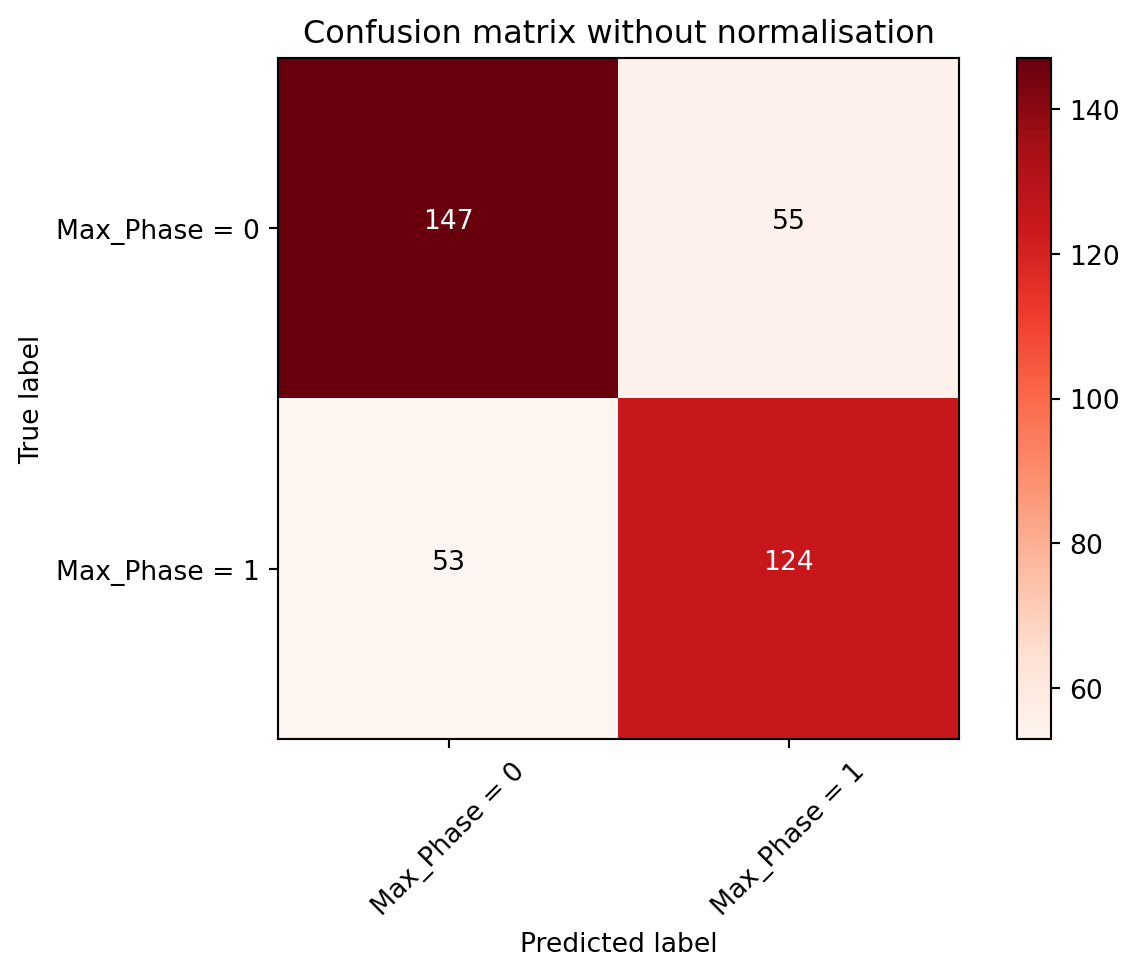
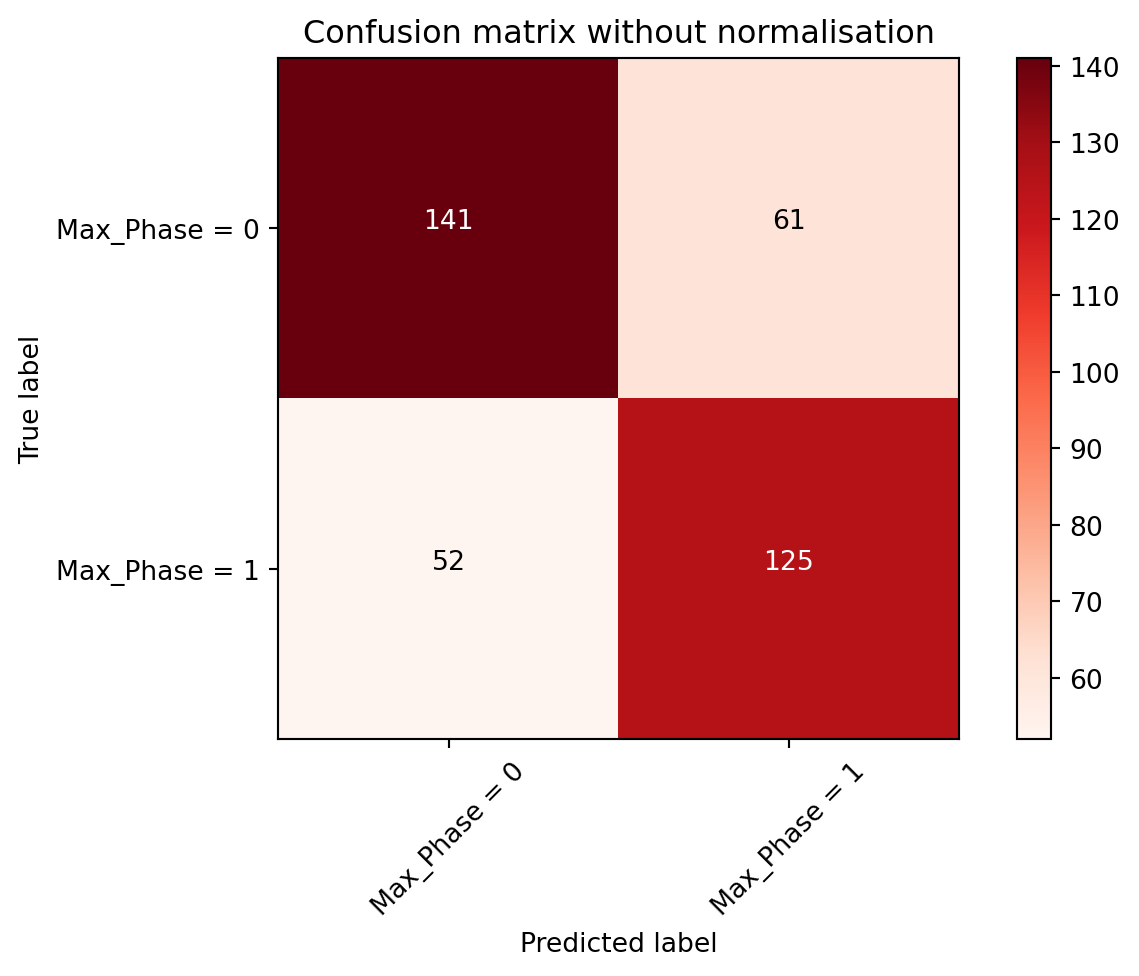
ML series 3 draft

diff --git a/_site/posts/11_ML3_Small_molecules_in_ChEMBL_database/ML3_chembl_cpds.html b/_site/posts/11_ML3_Small_molecules_in_ChEMBL_database/ML3_chembl_cpds.html
@@ -7,9 +7,9 @@
 <meta name="viewport" content="width=device-width, initial-scale=1.0, user-scalable=yes">
 
 <meta name="author" content="Jennifer HY Lin">
-<meta name="dcterms.date" content="2023-03-02">
+<meta name="dcterms.date" content="2023-03-13">
 
-<title>Home - Machine learning with small molecules in ChEMBL database</title>
+<title>Home - Small molecules in ChEMBL database</title>
 <style>
 code{white-space: pre-wrap;}
 span.smallcaps{font-variant: small-caps;}
@@ -193,7 +193,7 @@ gtag('config', 'G-5CHVP3K63C', { 'anonymize_ip': true});
 <header id="title-block-header" class="quarto-title-block default page-columns page-full">
   <div class="quarto-title-banner page-columns page-full">
     <div class="quarto-title column-body">
-      <h1 class="title">Machine learning with small molecules in ChEMBL database</h1>
+      <h1 class="title">Small molecules in ChEMBL database</h1>
             <p class="subtitle lead">Re-training &amp; final evaluation with <em>scikit-learn</em></p>
                                 <div class="quarto-categories">
                 <div class="quarto-category">Machine learning projects</div>
@@ -218,7 +218,7 @@ gtag('config', 'G-5CHVP3K63C', { 'anonymize_ip': true});
       <div>
       <div class="quarto-title-meta-heading">Published</div>
       <div class="quarto-title-meta-contents">
-        <p class="date">March 2, 2023</p>
+        <p class="date">March 13, 2023</p>
       </div>
     </div>
     
@@ -248,7 +248,7 @@ gtag('config', 'G-5CHVP3K63C', { 'anonymize_ip': true});
   <li><a href="#converting-predicted-values-into-a-dataframe" id="toc-converting-predicted-values-into-a-dataframe" class="nav-link" data-scroll-target="#converting-predicted-values-into-a-dataframe"><strong>Converting predicted values into a dataframe</strong></a></li>
   <li><a href="#converting-predicted-probabilities-into-a-dataframe" id="toc-converting-predicted-probabilities-into-a-dataframe" class="nav-link" data-scroll-target="#converting-predicted-probabilities-into-a-dataframe"><strong>Converting predicted probabilities into a dataframe</strong></a></li>
   </ul></li>
-  <li><a href="#evaluation-of-the-logistic-regression-cv-model" id="toc-evaluation-of-the-logistic-regression-cv-model" class="nav-link" data-scroll-target="#evaluation-of-the-logistic-regression-cv-model"><strong>Evaluation of the logistic regression CV model</strong></a>
+  <li><a href="#evaluation-of-the-logistic-regression-cv-model-after-using-optimised-parameters" id="toc-evaluation-of-the-logistic-regression-cv-model-after-using-optimised-parameters" class="nav-link" data-scroll-target="#evaluation-of-the-logistic-regression-cv-model-after-using-optimised-parameters"><strong>Evaluation of the logistic regression CV model after using optimised parameters</strong></a>
   <ul>
   <li><a href="#accuracy-scores" id="toc-accuracy-scores" class="nav-link" data-scroll-target="#accuracy-scores"><strong>Accuracy scores</strong></a></li>
   <li><a href="#confusion-matrix" id="toc-confusion-matrix" class="nav-link" data-scroll-target="#confusion-matrix"><strong>Confusion matrix</strong></a></li>
@@ -256,7 +256,6 @@ gtag('config', 'G-5CHVP3K63C', { 'anonymize_ip': true});
   <li><a href="#log-loss" id="toc-log-loss" class="nav-link" data-scroll-target="#log-loss"><strong>Log loss</strong></a></li>
   </ul></li>
   <li><a href="#discussions-and-conclusion" id="toc-discussions-and-conclusion" class="nav-link" data-scroll-target="#discussions-and-conclusion"><strong>Discussions and conclusion</strong></a></li>
-  <li><a href="#final-words" id="toc-final-words" class="nav-link" data-scroll-target="#final-words"><strong>Final words</strong></a></li>
   <li><a href="#references" id="toc-references" class="nav-link" data-scroll-target="#references"><strong>References</strong></a></li>
   </ul>
 <div class="toc-actions"><div><i class="bi bi-github"></i></div><div class="action-links"><p><a href="https://github.com/jhylin/Data_in_life_blog/issues/new" class="toc-action">Report an issue</a></p></div></div></nav>
@@ -274,15 +273,16 @@ gtag('config', 'G-5CHVP3K63C', { 'anonymize_ip': true});
 </section>
 <section id="review-of-ml-series-2-introduction-of-series-3" class="level5">
 <h5 class="anchored" data-anchor-id="review-of-ml-series-2-introduction-of-series-3"><strong>Review of ML series 2 &amp; introduction of series 3</strong></h5>
+<p>Without making this final post for logistic regression ML series for small molecules in ChEMBL database too long, I’ll quickly explain what happened in the ML series 1 and 2. Basically, I’ve trialled a logistic regression model on a small set of ChEMBL database-extracted small molecule data. The whole purpose was for me to go through the ML series flowchart that I’ve compiled in ML series 2. Currently, this post was ML series 3 focussing on re-training the model by using the newly-found parameters to optimise the original model after running the cross-validation and hyper-parameter tuning in ML series 2.</p>
 <p><br></p>
 </section>
 <section id="import-dataframe-from-ml-series-1" class="level5">
 <h5 class="anchored" data-anchor-id="import-dataframe-from-ml-series-1"><strong>Import dataframe from ML series 1</strong></h5>
-<p>Since <em>scikit-learn</em> mainly supports Pandas dataframes for ML, I’ve opted to use Pandas instead of Polars dataframe library this time, to avoid the extra step of converting a Polars dataframe into a Pandas one.</p>
+<p>Using Pandas again to import the same set of data used in ML series 1 and 2.</p>
 <div class="cell" data-execution_count="1">
 <div class="sourceCode cell-code" id="cb1"><pre class="sourceCode python code-with-copy"><code class="sourceCode python"><span id="cb1-1"><a href="#cb1-1" aria-hidden="true" tabindex="-1"></a><span class="im">import</span> pandas <span class="im">as</span> pd</span></code><button title="Copy to Clipboard" class="code-copy-button"><i class="bi"></i></button></pre></div>
 </div>
-<p>I’ve exported the final dataframe from ML series 1 as a .csv file, so that we could continue on this ML series and work on the LR model further. For this ML series 2, the .csv file was imported as shown below.</p>
+<p>Importing and reading the same df_ml dataset again.</p>
 <div class="cell" data-execution_count="2">
 <div class="sourceCode cell-code" id="cb2"><pre class="sourceCode python code-with-copy"><code class="sourceCode python"><span id="cb2-1"><a href="#cb2-1" aria-hidden="true" tabindex="-1"></a>df_ml <span class="op">=</span> pd.read_csv(<span class="st">"df_ml.csv"</span>)</span>
 <span id="cb2-2"><a href="#cb2-2" aria-hidden="true" tabindex="-1"></a>df_ml.head()</span></code><button title="Copy to Clipboard" class="code-copy-button"><i class="bi"></i></button></pre></div>
@@ -376,7 +376,7 @@ gtag('config', 'G-5CHVP3K63C', { 'anonymize_ip': true});
 <pre><code>1.2.0</code></pre>
 </div>
 </div>
-<p>Other libraries needed to generate ML model were imported as below.</p>
+<p>Other libraries needed were imported as below.</p>
 <div class="cell" data-execution_count="6">
 <div class="sourceCode cell-code" id="cb7"><pre class="sourceCode python code-with-copy"><code class="sourceCode python"><span id="cb7-1"><a href="#cb7-1" aria-hidden="true" tabindex="-1"></a><span class="co"># To use NumPy arrays to prepare X &amp; y variables</span></span>
 <span id="cb7-2"><a href="#cb7-2" aria-hidden="true" tabindex="-1"></a><span class="im">import</span> numpy <span class="im">as</span> np</span>
@@ -395,7 +395,7 @@ gtag('config', 'G-5CHVP3K63C', { 'anonymize_ip': true});
 </section>
 <section id="logistic-regression" class="level5">
 <h5 class="anchored" data-anchor-id="logistic-regression"><strong>Logistic regression</strong></h5>
-<p>To get the LR model ready, we needed to define our X and y variables from the df_ml dataset.</p>
+<p>Here I’ve defined the X and y variables again and kept them same as the ones used in ML series 1 and 2.</p>
 <p><br></p>
 <section id="defining-x-and-y-variables" class="level6">
 <h6 class="anchored" data-anchor-id="defining-x-and-y-variables"><strong>Defining X and y variables</strong></h6>
@@ -430,15 +430,9 @@ gtag('config', 'G-5CHVP3K63C', { 'anonymize_ip': true});
 <h6 class="anchored" data-anchor-id="training-and-testing-sets"><strong>Training and testing sets</strong></h6>
 <div class="cell" data-execution_count="9">
 <div class="sourceCode cell-code" id="cb12"><pre class="sourceCode python code-with-copy"><code class="sourceCode python"><span id="cb12-1"><a href="#cb12-1" aria-hidden="true" tabindex="-1"></a><span class="co"># Split dataset into training &amp; testing sets</span></span>
-<span id="cb12-2"><a href="#cb12-2" aria-hidden="true" tabindex="-1"></a></span>
-<span id="cb12-3"><a href="#cb12-3" aria-hidden="true" tabindex="-1"></a><span class="co"># Random number generator - note: this may produce different result each time</span></span>
-<span id="cb12-4"><a href="#cb12-4" aria-hidden="true" tabindex="-1"></a><span class="co">#rng = np.random.RandomState(0) </span></span>
-<span id="cb12-5"><a href="#cb12-5" aria-hidden="true" tabindex="-1"></a></span>
-<span id="cb12-6"><a href="#cb12-6" aria-hidden="true" tabindex="-1"></a><span class="co"># Edited post to use random_state = 250 </span></span>
-<span id="cb12-7"><a href="#cb12-7" aria-hidden="true" tabindex="-1"></a><span class="co"># to show comparison with ML series 1 for reproducible result</span></span>
-<span id="cb12-8"><a href="#cb12-8" aria-hidden="true" tabindex="-1"></a>X_train, X_test, y_train, y_test <span class="op">=</span> train_test_split(X, y, test_size <span class="op">=</span> <span class="fl">0.2</span>, random_state <span class="op">=</span> <span class="dv">250</span>)</span>
-<span id="cb12-9"><a href="#cb12-9" aria-hidden="true" tabindex="-1"></a><span class="bu">print</span>(<span class="st">'Training set:'</span>, X_train.shape, y_train.shape)</span>
-<span id="cb12-10"><a href="#cb12-10" aria-hidden="true" tabindex="-1"></a><span class="bu">print</span>(<span class="st">'Testing set:'</span>, X_test.shape, y_test.shape)</span></code><button title="Copy to Clipboard" class="code-copy-button"><i class="bi"></i></button></pre></div>
+<span id="cb12-2"><a href="#cb12-2" aria-hidden="true" tabindex="-1"></a>X_train, X_test, y_train, y_test <span class="op">=</span> train_test_split(X, y, test_size <span class="op">=</span> <span class="fl">0.2</span>, random_state <span class="op">=</span> <span class="dv">250</span>)</span>
+<span id="cb12-3"><a href="#cb12-3" aria-hidden="true" tabindex="-1"></a><span class="bu">print</span>(<span class="st">'Training set:'</span>, X_train.shape, y_train.shape)</span>
+<span id="cb12-4"><a href="#cb12-4" aria-hidden="true" tabindex="-1"></a><span class="bu">print</span>(<span class="st">'Testing set:'</span>, X_test.shape, y_test.shape)</span></code><button title="Copy to Clipboard" class="code-copy-button"><i class="bi"></i></button></pre></div>
 <div class="cell-output cell-output-stdout">
 <pre><code>Training set: (1515, 5) (1515,)
 Testing set: (379, 5) (379,)</code></pre>
@@ -466,17 +460,18 @@ Testing set: (379, 5) (379,)</code></pre>
 </section>
 <section id="fitting-lr-classifier-on-training-set" class="level6">
 <h6 class="anchored" data-anchor-id="fitting-lr-classifier-on-training-set"><strong>Fitting LR classifier on training set</strong></h6>
-<p>One major difference to this LR classifier this time was that cross-validation was included, via using LogisticRegressionCV model, when fitting the training data.</p>
+<p>One thing that would be added or changed this time was that Cs value would be changed to 50, while using cv = 5, which was already set by default (so this would not be explicitly typed into the LogisticRegressionCV classifier). This was because a Cs of 50 and cv of 5, along with a penalty of l2 and solver in lbfgs were found to produce the highest accuracy score last time when doing hyper-parameter tuning and cross-validations.</p>
 <div class="cell" data-execution_count="11">
 <div class="sourceCode cell-code" id="cb16"><pre class="sourceCode python code-with-copy"><code class="sourceCode python"><span id="cb16-1"><a href="#cb16-1" aria-hidden="true" tabindex="-1"></a><span class="co"># Import logistic regression CV estimator</span></span>
 <span id="cb16-2"><a href="#cb16-2" aria-hidden="true" tabindex="-1"></a><span class="im">from</span> sklearn.linear_model <span class="im">import</span> LogisticRegressionCV</span>
 <span id="cb16-3"><a href="#cb16-3" aria-hidden="true" tabindex="-1"></a></span>
 <span id="cb16-4"><a href="#cb16-4" aria-hidden="true" tabindex="-1"></a><span class="co"># Change to LogisticRegressionCV() - LR with built-in cross validation</span></span>
 <span id="cb16-5"><a href="#cb16-5" aria-hidden="true" tabindex="-1"></a><span class="co"># Create an instance of logistic regression CV classifier and fit the data</span></span>
-<span id="cb16-6"><a href="#cb16-6" aria-hidden="true" tabindex="-1"></a>LogR <span class="op">=</span> LogisticRegressionCV().fit(X_train, y_train)</span>
-<span id="cb16-7"><a href="#cb16-7" aria-hidden="true" tabindex="-1"></a>LogR</span></code><button title="Copy to Clipboard" class="code-copy-button"><i class="bi"></i></button></pre></div>
+<span id="cb16-6"><a href="#cb16-6" aria-hidden="true" tabindex="-1"></a><span class="co"># Add in tuned parameters from ML series 2</span></span>
+<span id="cb16-7"><a href="#cb16-7" aria-hidden="true" tabindex="-1"></a>LogR <span class="op">=</span> LogisticRegressionCV(Cs <span class="op">=</span> <span class="dv">50</span>).fit(X_train, y_train)</span>
+<span id="cb16-8"><a href="#cb16-8" aria-hidden="true" tabindex="-1"></a>LogR</span></code><button title="Copy to Clipboard" class="code-copy-button"><i class="bi"></i></button></pre></div>
 <div class="cell-output cell-output-display" data-execution_count="11">
-<style>#sk-container-id-1 {color: black;background-color: white;}#sk-container-id-1 pre{padding: 0;}#sk-container-id-1 div.sk-toggleable {background-color: white;}#sk-container-id-1 label.sk-toggleable__label {cursor: pointer;display: block;width: 100%;margin-bottom: 0;padding: 0.3em;box-sizing: border-box;text-align: center;}#sk-container-id-1 label.sk-toggleable__label-arrow:before {content: "▸";float: left;margin-right: 0.25em;color: #696969;}#sk-container-id-1 label.sk-toggleable__label-arrow:hover:before {color: black;}#sk-container-id-1 div.sk-estimator:hover label.sk-toggleable__label-arrow:before {color: black;}#sk-container-id-1 div.sk-toggleable__content {max-height: 0;max-width: 0;overflow: hidden;text-align: left;background-color: #f0f8ff;}#sk-container-id-1 div.sk-toggleable__content pre {margin: 0.2em;color: black;border-radius: 0.25em;background-color: #f0f8ff;}#sk-container-id-1 input.sk-toggleable__control:checked~div.sk-toggleable__content {max-height: 200px;max-width: 100%;overflow: auto;}#sk-container-id-1 input.sk-toggleable__control:checked~label.sk-toggleable__label-arrow:before {content: "▾";}#sk-container-id-1 div.sk-estimator input.sk-toggleable__control:checked~label.sk-toggleable__label {background-color: #d4ebff;}#sk-container-id-1 div.sk-label input.sk-toggleable__control:checked~label.sk-toggleable__label {background-color: #d4ebff;}#sk-container-id-1 input.sk-hidden--visually {border: 0;clip: rect(1px 1px 1px 1px);clip: rect(1px, 1px, 1px, 1px);height: 1px;margin: -1px;overflow: hidden;padding: 0;position: absolute;width: 1px;}#sk-container-id-1 div.sk-estimator {font-family: monospace;background-color: #f0f8ff;border: 1px dotted black;border-radius: 0.25em;box-sizing: border-box;margin-bottom: 0.5em;}#sk-container-id-1 div.sk-estimator:hover {background-color: #d4ebff;}#sk-container-id-1 div.sk-parallel-item::after {content: "";width: 100%;border-bottom: 1px solid gray;flex-grow: 1;}#sk-container-id-1 div.sk-label:hover label.sk-toggleable__label {background-color: #d4ebff;}#sk-container-id-1 div.sk-serial::before {content: "";position: absolute;border-left: 1px solid gray;box-sizing: border-box;top: 0;bottom: 0;left: 50%;z-index: 0;}#sk-container-id-1 div.sk-serial {display: flex;flex-direction: column;align-items: center;background-color: white;padding-right: 0.2em;padding-left: 0.2em;position: relative;}#sk-container-id-1 div.sk-item {position: relative;z-index: 1;}#sk-container-id-1 div.sk-parallel {display: flex;align-items: stretch;justify-content: center;background-color: white;position: relative;}#sk-container-id-1 div.sk-item::before, #sk-container-id-1 div.sk-parallel-item::before {content: "";position: absolute;border-left: 1px solid gray;box-sizing: border-box;top: 0;bottom: 0;left: 50%;z-index: -1;}#sk-container-id-1 div.sk-parallel-item {display: flex;flex-direction: column;z-index: 1;position: relative;background-color: white;}#sk-container-id-1 div.sk-parallel-item:first-child::after {align-self: flex-end;width: 50%;}#sk-container-id-1 div.sk-parallel-item:last-child::after {align-self: flex-start;width: 50%;}#sk-container-id-1 div.sk-parallel-item:only-child::after {width: 0;}#sk-container-id-1 div.sk-dashed-wrapped {border: 1px dashed gray;margin: 0 0.4em 0.5em 0.4em;box-sizing: border-box;padding-bottom: 0.4em;background-color: white;}#sk-container-id-1 div.sk-label label {font-family: monospace;font-weight: bold;display: inline-block;line-height: 1.2em;}#sk-container-id-1 div.sk-label-container {text-align: center;}#sk-container-id-1 div.sk-container {/* jupyter's `normalize.less` sets `[hidden] { display: none; }` but bootstrap.min.css set `[hidden] { display: none !important; }` so we also need the `!important` here to be able to override the default hidden behavior on the sphinx rendered scikit-learn.org. See: https://github.com/scikit-learn/scikit-learn/issues/21755 */display: inline-block !important;position: relative;}#sk-container-id-1 div.sk-text-repr-fallback {display: none;}</style><div id="sk-container-id-1" class="sk-top-container"><div class="sk-text-repr-fallback"><pre>LogisticRegressionCV()</pre><b>In a Jupyter environment, please rerun this cell to show the HTML representation or trust the notebook. <br>On GitHub, the HTML representation is unable to render, please try loading this page with nbviewer.org.</b></div><div class="sk-container" hidden=""><div class="sk-item"><div class="sk-estimator sk-toggleable"><input class="sk-toggleable__control sk-hidden--visually" id="sk-estimator-id-1" type="checkbox" checked=""><label for="sk-estimator-id-1" class="sk-toggleable__label sk-toggleable__label-arrow">LogisticRegressionCV</label><div class="sk-toggleable__content"><pre>LogisticRegressionCV()</pre></div></div></div></div></div>
+<style>#sk-container-id-1 {color: black;background-color: white;}#sk-container-id-1 pre{padding: 0;}#sk-container-id-1 div.sk-toggleable {background-color: white;}#sk-container-id-1 label.sk-toggleable__label {cursor: pointer;display: block;width: 100%;margin-bottom: 0;padding: 0.3em;box-sizing: border-box;text-align: center;}#sk-container-id-1 label.sk-toggleable__label-arrow:before {content: "▸";float: left;margin-right: 0.25em;color: #696969;}#sk-container-id-1 label.sk-toggleable__label-arrow:hover:before {color: black;}#sk-container-id-1 div.sk-estimator:hover label.sk-toggleable__label-arrow:before {color: black;}#sk-container-id-1 div.sk-toggleable__content {max-height: 0;max-width: 0;overflow: hidden;text-align: left;background-color: #f0f8ff;}#sk-container-id-1 div.sk-toggleable__content pre {margin: 0.2em;color: black;border-radius: 0.25em;background-color: #f0f8ff;}#sk-container-id-1 input.sk-toggleable__control:checked~div.sk-toggleable__content {max-height: 200px;max-width: 100%;overflow: auto;}#sk-container-id-1 input.sk-toggleable__control:checked~label.sk-toggleable__label-arrow:before {content: "▾";}#sk-container-id-1 div.sk-estimator input.sk-toggleable__control:checked~label.sk-toggleable__label {background-color: #d4ebff;}#sk-container-id-1 div.sk-label input.sk-toggleable__control:checked~label.sk-toggleable__label {background-color: #d4ebff;}#sk-container-id-1 input.sk-hidden--visually {border: 0;clip: rect(1px 1px 1px 1px);clip: rect(1px, 1px, 1px, 1px);height: 1px;margin: -1px;overflow: hidden;padding: 0;position: absolute;width: 1px;}#sk-container-id-1 div.sk-estimator {font-family: monospace;background-color: #f0f8ff;border: 1px dotted black;border-radius: 0.25em;box-sizing: border-box;margin-bottom: 0.5em;}#sk-container-id-1 div.sk-estimator:hover {background-color: #d4ebff;}#sk-container-id-1 div.sk-parallel-item::after {content: "";width: 100%;border-bottom: 1px solid gray;flex-grow: 1;}#sk-container-id-1 div.sk-label:hover label.sk-toggleable__label {background-color: #d4ebff;}#sk-container-id-1 div.sk-serial::before {content: "";position: absolute;border-left: 1px solid gray;box-sizing: border-box;top: 0;bottom: 0;left: 50%;z-index: 0;}#sk-container-id-1 div.sk-serial {display: flex;flex-direction: column;align-items: center;background-color: white;padding-right: 0.2em;padding-left: 0.2em;position: relative;}#sk-container-id-1 div.sk-item {position: relative;z-index: 1;}#sk-container-id-1 div.sk-parallel {display: flex;align-items: stretch;justify-content: center;background-color: white;position: relative;}#sk-container-id-1 div.sk-item::before, #sk-container-id-1 div.sk-parallel-item::before {content: "";position: absolute;border-left: 1px solid gray;box-sizing: border-box;top: 0;bottom: 0;left: 50%;z-index: -1;}#sk-container-id-1 div.sk-parallel-item {display: flex;flex-direction: column;z-index: 1;position: relative;background-color: white;}#sk-container-id-1 div.sk-parallel-item:first-child::after {align-self: flex-end;width: 50%;}#sk-container-id-1 div.sk-parallel-item:last-child::after {align-self: flex-start;width: 50%;}#sk-container-id-1 div.sk-parallel-item:only-child::after {width: 0;}#sk-container-id-1 div.sk-dashed-wrapped {border: 1px dashed gray;margin: 0 0.4em 0.5em 0.4em;box-sizing: border-box;padding-bottom: 0.4em;background-color: white;}#sk-container-id-1 div.sk-label label {font-family: monospace;font-weight: bold;display: inline-block;line-height: 1.2em;}#sk-container-id-1 div.sk-label-container {text-align: center;}#sk-container-id-1 div.sk-container {/* jupyter's `normalize.less` sets `[hidden] { display: none; }` but bootstrap.min.css set `[hidden] { display: none !important; }` so we also need the `!important` here to be able to override the default hidden behavior on the sphinx rendered scikit-learn.org. See: https://github.com/scikit-learn/scikit-learn/issues/21755 */display: inline-block !important;position: relative;}#sk-container-id-1 div.sk-text-repr-fallback {display: none;}</style><div id="sk-container-id-1" class="sk-top-container"><div class="sk-text-repr-fallback"><pre>LogisticRegressionCV(Cs=50)</pre><b>In a Jupyter environment, please rerun this cell to show the HTML representation or trust the notebook. <br>On GitHub, the HTML representation is unable to render, please try loading this page with nbviewer.org.</b></div><div class="sk-container" hidden=""><div class="sk-item"><div class="sk-estimator sk-toggleable"><input class="sk-toggleable__control sk-hidden--visually" id="sk-estimator-id-1" type="checkbox" checked=""><label for="sk-estimator-id-1" class="sk-toggleable__label sk-toggleable__label-arrow">LogisticRegressionCV</label><div class="sk-toggleable__content"><pre>LogisticRegressionCV(Cs=50)</pre></div></div></div></div></div>
 </div>
 </div>
 <p><br></p>
@@ -489,21 +484,21 @@ Testing set: (379, 5) (379,)</code></pre>
 <div class="cell-output cell-output-display" data-execution_count="12">
 <pre><code>array([0, 0, 1, 0, 0, 1, 0, 0, 1, 0, 1, 1, 0, 1, 1, 0, 0, 0, 0, 0, 0, 0,
        0, 0, 1, 0, 0, 0, 1, 0, 1, 1, 0, 1, 1, 1, 0, 0, 1, 0, 0, 1, 0, 0,
-       1, 1, 1, 0, 1, 0, 0, 0, 1, 1, 1, 1, 1, 1, 1, 0, 0, 0, 0, 0, 0, 1,
+       1, 1, 1, 0, 1, 0, 1, 0, 1, 1, 1, 1, 1, 1, 1, 0, 1, 0, 0, 0, 1, 1,
        1, 0, 1, 1, 0, 1, 1, 0, 1, 0, 0, 1, 1, 0, 1, 1, 1, 0, 1, 0, 1, 1,
        0, 0, 0, 0, 1, 0, 1, 0, 1, 0, 0, 0, 0, 1, 1, 1, 0, 0, 0, 1, 1, 1,
        1, 1, 1, 0, 0, 0, 1, 0, 0, 1, 1, 1, 0, 0, 0, 0, 1, 1, 1, 1, 1, 0,
        1, 0, 1, 1, 0, 0, 0, 0, 0, 1, 0, 1, 0, 1, 0, 1, 0, 0, 1, 0, 0, 1,
-       0, 1, 1, 1, 0, 0, 0, 1, 0, 1, 0, 1, 0, 0, 1, 0, 1, 0, 0, 0, 0, 0,
-       0, 1, 1, 0, 0, 0, 1, 1, 1, 0, 1, 1, 0, 0, 1, 0, 1, 1, 1, 0, 0, 0,
-       0, 0, 1, 1, 1, 0, 0, 1, 0, 0, 1, 0, 1, 1, 0, 0, 1, 1, 0, 0, 1, 1,
+       0, 1, 0, 1, 0, 0, 1, 1, 0, 1, 0, 1, 0, 0, 1, 0, 1, 0, 0, 0, 0, 0,
+       0, 1, 1, 0, 0, 0, 1, 1, 1, 0, 1, 1, 0, 0, 1, 0, 1, 1, 1, 0, 1, 0,
+       0, 0, 1, 1, 1, 0, 0, 1, 0, 0, 1, 0, 1, 1, 0, 0, 1, 1, 0, 1, 1, 1,
        0, 1, 0, 1, 0, 0, 1, 0, 0, 1, 1, 0, 0, 0, 1, 0, 0, 1, 0, 0, 0, 1,
        0, 1, 1, 1, 1, 1, 1, 1, 0, 0, 1, 1, 0, 0, 0, 1, 0, 0, 1, 0, 0, 0,
        1, 0, 0, 0, 1, 1, 0, 0, 0, 1, 1, 1, 1, 0, 1, 0, 1, 1, 1, 0, 1, 0,
        0, 1, 1, 0, 0, 1, 0, 0, 1, 0, 1, 0, 1, 0, 0, 1, 1, 0, 0, 1, 1, 1,
        0, 1, 1, 0, 1, 0, 1, 0, 1, 1, 0, 1, 0, 1, 0, 0, 1, 0, 1, 0, 1, 0,
        1, 0, 1, 1, 1, 1, 0, 1, 0, 0, 0, 1, 1, 1, 1, 1, 0, 0, 0, 0, 1, 0,
-       1, 0, 1, 1, 0, 0, 1, 0, 0, 1, 1, 0, 1, 1, 1, 1, 0, 0, 0, 0, 0, 1,
+       1, 1, 1, 1, 0, 0, 1, 0, 0, 1, 1, 0, 1, 1, 1, 1, 0, 0, 0, 0, 1, 1,
        0, 0, 1, 0, 0])</code></pre>
 </div>
 </div>
@@ -536,45 +531,45 @@ Testing set: (379, 5) (379,)</code></pre>
     </tr>
     <tr>
       <th>mean</th>
-      <td>-1.062787</td>
-      <td>-0.442845</td>
+      <td>-0.926464</td>
+      <td>-0.556489</td>
     </tr>
     <tr>
       <th>std</th>
-      <td>0.235029</td>
-      <td>0.109879</td>
+      <td>0.302448</td>
+      <td>0.218910</td>
     </tr>
     <tr>
       <th>min</th>
-      <td>-2.435645</td>
-      <td>-0.793868</td>
+      <td>-1.937517</td>
+      <td>-1.268254</td>
     </tr>
     <tr>
       <th>25%</th>
-      <td>-1.165361</td>
-      <td>-0.504319</td>
+      <td>-1.127372</td>
+      <td>-0.688112</td>
     </tr>
     <tr>
       <th>50%</th>
-      <td>-1.049435</td>
-      <td>-0.430992</td>
+      <td>-0.912437</td>
+      <td>-0.513403</td>
     </tr>
     <tr>
       <th>75%</th>
-      <td>-0.926131</td>
-      <td>-0.373691</td>
+      <td>-0.698208</td>
+      <td>-0.391389</td>
     </tr>
     <tr>
       <th>max</th>
-      <td>-0.601649</td>
-      <td>-0.091612</td>
+      <td>-0.330342</td>
+      <td>-0.155556</td>
     </tr>
   </tbody>
 </table>
 </div>
 </div>
 </div>
-<p>Alternatively, a quicker way to get predicted probabilities was via predict_proba() method in <em>scikit-learn</em>.</p>
+<p>To get predicted probabilities, use predict_proba() method in <em>scikit-learn</em>.</p>
 <div class="cell" data-execution_count="14">
 <div class="sourceCode cell-code" id="cb20"><pre class="sourceCode python code-with-copy"><code class="sourceCode python"><span id="cb20-1"><a href="#cb20-1" aria-hidden="true" tabindex="-1"></a>y_mp_proba <span class="op">=</span> LogR.predict_proba(X_test)</span>
 <span id="cb20-2"><a href="#cb20-2" aria-hidden="true" tabindex="-1"></a><span class="co"># Uncomment below to see the predicted probabilities printed</span></span>
@@ -608,38 +603,38 @@ Testing set: (379, 5) (379,)</code></pre>
     </tr>
     <tr>
       <th>mean</th>
-      <td>0.482928</td>
-      <td>0.517072</td>
+      <td>0.483351</td>
+      <td>0.516649</td>
     </tr>
     <tr>
       <th>std</th>
-      <td>0.172099</td>
-      <td>0.172099</td>
+      <td>0.175766</td>
+      <td>0.175766</td>
     </tr>
     <tr>
       <th>min</th>
-      <td>0.009285</td>
-      <td>0.144482</td>
+      <td>0.007432</td>
+      <td>0.141781</td>
     </tr>
     <tr>
       <th>25%</th>
-      <td>0.372812</td>
-      <td>0.391971</td>
+      <td>0.361289</td>
+      <td>0.393433</td>
     </tr>
     <tr>
       <th>50%</th>
-      <td>0.511104</td>
-      <td>0.488896</td>
+      <td>0.503003</td>
+      <td>0.496997</td>
     </tr>
     <tr>
       <th>75%</th>
-      <td>0.608029</td>
-      <td>0.627188</td>
+      <td>0.606567</td>
+      <td>0.638711</td>
     </tr>
     <tr>
       <th>max</th>
-      <td>0.855518</td>
-      <td>0.990715</td>
+      <td>0.858219</td>
+      <td>0.992568</td>
     </tr>
   </tbody>
 </table>
@@ -650,22 +645,23 @@ Testing set: (379, 5) (379,)</code></pre>
 <p><br></p>
 </section>
 </section>
-<section id="evaluation-of-the-logistic-regression-cv-model" class="level4">
-<h4 class="anchored" data-anchor-id="evaluation-of-the-logistic-regression-cv-model"><strong>Evaluation of the logistic regression CV model</strong></h4>
+<section id="evaluation-of-the-logistic-regression-cv-model-after-using-optimised-parameters" class="level4">
+<h4 class="anchored" data-anchor-id="evaluation-of-the-logistic-regression-cv-model-after-using-optimised-parameters"><strong>Evaluation of the logistic regression CV model after using optimised parameters</strong></h4>
 <section id="accuracy-scores" class="level6">
 <h6 class="anchored" data-anchor-id="accuracy-scores"><strong>Accuracy scores</strong></h6>
 <div class="cell" data-execution_count="16">
 <div class="sourceCode cell-code" id="cb22"><pre class="sourceCode python code-with-copy"><code class="sourceCode python"><span id="cb22-1"><a href="#cb22-1" aria-hidden="true" tabindex="-1"></a><span class="im">from</span> sklearn.metrics <span class="im">import</span> accuracy_score</span>
 <span id="cb22-2"><a href="#cb22-2" aria-hidden="true" tabindex="-1"></a>accuracy_score(y_mp, y_test)</span></code><button title="Copy to Clipboard" class="code-copy-button"><i class="bi"></i></button></pre></div>
 <div class="cell-output cell-output-display" data-execution_count="16">
-<pre><code>0.7150395778364116</code></pre>
+<pre><code>0.7018469656992085</code></pre>
 </div>
 </div>
+<p>There were about 0.26% increase in accuracy score when using the LogR model with the tuned parameter after ML series 2 when compared with the LogR model from ML series 1.</p>
 <p><br></p>
 </section>
 <section id="confusion-matrix" class="level6">
 <h6 class="anchored" data-anchor-id="confusion-matrix"><strong>Confusion matrix</strong></h6>
-<p>Again, to visualise the LR classifer built this time using LogisticRegressionCV estimator in a confusion matrix, the same code was used as previously.</p>
+<p>Again, I’ve used the same confusion matrix function code again to show the new confusion matrix this time.</p>
 <div class="cell" data-execution_count="17">
 <div class="sourceCode cell-code" id="cb24"><pre class="sourceCode python code-with-copy"><code class="sourceCode python"><span id="cb24-1"><a href="#cb24-1" aria-hidden="true" tabindex="-1"></a><span class="co"># Import confusion matrix from scikit-learn</span></span>
 <span id="cb24-2"><a href="#cb24-2" aria-hidden="true" tabindex="-1"></a><span class="im">from</span> sklearn.metrics <span class="im">import</span> confusion_matrix</span>
@@ -731,20 +727,13 @@ Testing set: (379, 5) (379,)</code></pre>
 <span id="cb25-13"><a href="#cb25-13" aria-hidden="true" tabindex="-1"></a>                     )</span></code><button title="Copy to Clipboard" class="code-copy-button"><i class="bi"></i></button></pre></div>
 <div class="cell-output cell-output-stdout">
 <pre><code>Confusion matrix, without normalization
-[[147  55]
- [ 53 124]]</code></pre>
+[[141  61]
+ [ 52 125]]</code></pre>
 </div>
 <div class="cell-output cell-output-display">
 <p><img src="ML3_chembl_cpds_files/figure-html/cell-19-output-2.png" width="570" height="488"></p>
 </div>
 </div>
-<p>The four different categories in the confusion matrix were:</p>
-<ul>
-<li>True positive - Predicted Max_Phase = 1 &amp; True Max_Phase = 1 ( out of samples)</li>
-<li>True negative - Predicted Max_Phase = 0 &amp; True Max_Phase = 0 ( out of samples)</li>
-<li>False positive - Predicted Max_Phase = 1 &amp; True Max_Phase = 0 ( out of samples)</li>
-<li>False negative - Predicted Max_Phase = 0 &amp; True Max_Phase = 1 ( out of samples)</li>
-</ul>
 <p><br></p>
 </section>
 <section id="classification-report" class="level6">
@@ -755,12 +744,12 @@ Testing set: (379, 5) (379,)</code></pre>
 <div class="cell-output cell-output-stdout">
 <pre><code>              precision    recall  f1-score   support
 
-           0       0.73      0.73      0.73       202
-           1       0.69      0.70      0.70       177
+           0       0.73      0.70      0.71       202
+           1       0.67      0.71      0.69       177
 
-    accuracy                           0.72       379
-   macro avg       0.71      0.71      0.71       379
-weighted avg       0.72      0.72      0.72       379
+    accuracy                           0.70       379
+   macro avg       0.70      0.70      0.70       379
+weighted avg       0.70      0.70      0.70       379
 </code></pre>
 </div>
 </div>
@@ -773,13 +762,13 @@ weighted avg       0.72      0.72      0.72       379
 </section>
 <section id="log-loss" class="level6">
 <h6 class="anchored" data-anchor-id="log-loss"><strong>Log loss</strong></h6>
-<p>Log loss could be used as another gauge to show how good the classifier was at making the outcome predictions. The further the predicted probability was from the true value, the larger the log loss, which was also ranged from 0 to 1. Ideally, the smaller the log loss the better the model would be. Here, we had a log loss of 0.61 for this particular model.</p>
+<p>There was only a slight increase in log loss score, although not really significant. <em>List old log loss</em></p>
 <div class="cell" data-execution_count="20">
 <div class="sourceCode cell-code" id="cb29"><pre class="sourceCode python code-with-copy"><code class="sourceCode python"><span id="cb29-1"><a href="#cb29-1" aria-hidden="true" tabindex="-1"></a><span class="co"># Log loss</span></span>
 <span id="cb29-2"><a href="#cb29-2" aria-hidden="true" tabindex="-1"></a><span class="im">from</span> sklearn.metrics <span class="im">import</span> log_loss</span>
 <span id="cb29-3"><a href="#cb29-3" aria-hidden="true" tabindex="-1"></a>log_loss(y_test, y_mp_proba)</span></code><button title="Copy to Clipboard" class="code-copy-button"><i class="bi"></i></button></pre></div>
 <div class="cell-output cell-output-display" data-execution_count="20">
-<pre><code>0.6115648700062126</code></pre>
+<pre><code>0.608337653347155</code></pre>
 </div>
 </div>
 <p><br></p>
@@ -787,10 +776,7 @@ weighted avg       0.72      0.72      0.72       379
 </section>
 <section id="discussions-and-conclusion" class="level4">
 <h4 class="anchored" data-anchor-id="discussions-and-conclusion"><strong>Discussions and conclusion</strong></h4>
-<p><br></p>
-</section>
-<section id="final-words" class="level4">
-<h4 class="anchored" data-anchor-id="final-words"><strong>Final words</strong></h4>
+<p>It was without any surprises that the re-trained model did not provide a huge difference from the initial model, which was already predicted in ML series 2. However, the purpose of tuning the parameters to reach a more optimied model was shown with a less than 1% increase in accuracy score and an even smaller increase in log loss value for the re-trained model.</p>
 <p><br></p>
 </section>
 <section id="references" class="level4">
